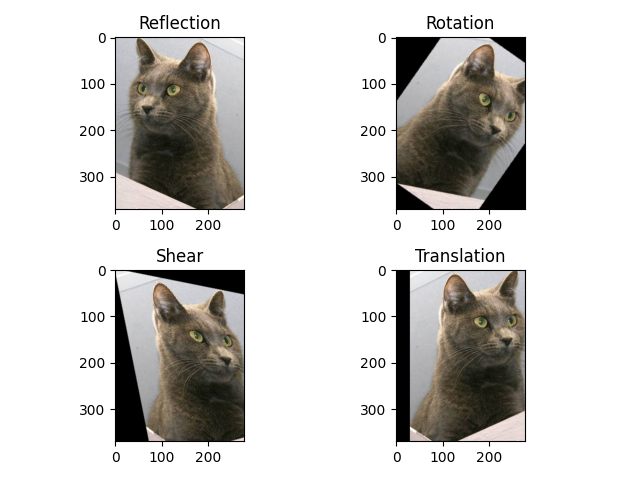
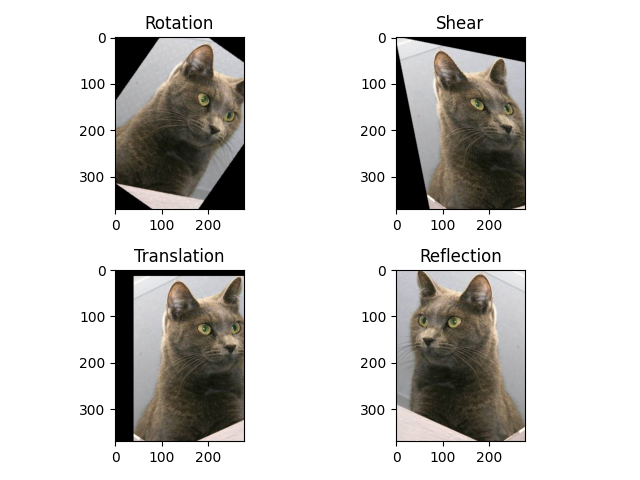
feat: resample

diff --git a/affine_tf/resample/resamples.py b/affine_tf/resample/resamples.py
@@ -26,43 +26,128 @@ def miss_values(new_coords, height, width):
     values = tf.ones(shape=(new_coords.shape[0]))
     mask = tf.scatter_nd(new_coords, values, shape=(height, width))
     coords = tf.where(mask == 0)
+    coords = tf.cast(coords, dtype=tf.int32)
     return coords
 
 
-def interpolate_values(image,
-                       empty_coordinates,
-                       left_up_coords,
-                       right_up_coords,
-                       left_down_coords,
-                       right_down_coords):
-    left_up_values = tf.gather_nd(image, left_up_coords)
-    right_up_values = tf.gather_nd(image, right_up_coords)
-    left_down_values = tf.gather_nd(image, left_down_coords)
-    right_down_values = tf.gather_nd(image, right_down_coords)
+def padding_mask(coordinates, height, width):
+    c = tf.transpose(coordinates)
+    y = tf.slice(c, [0, 0], [1, -1])
+    x = tf.slice(c, [1, 0], [1, -1])
+    xm0 = tf.equal(x, 0)
+    xm1 = tf.equal(x, width + 1)
+    xm = tf.logical_or(xm0, xm1)
+    ym0 = tf.equal(y, 0)
+    ym1 = tf.equal(y, height + 1)
+    ym = tf.logical_or(ym0, ym1)
+    mask = tf.logical_or(xm, ym)
+    m0 = tf.reshape(mask, shape=(-1, 1))
+    m1 = tf.identity(m0)
+    mask = tf.concat((m0, m1), axis=1)
+    coords = tf.boolean_mask(coordinates, mask)
+    coords = tf.reshape(coords, shape=(-1, 2))
+    values = tf.ones(shape=coords.shape[0], dtype=tf.uint8)
+    pad_mask = tf.scatter_nd(coords, values, tf.constant([height + 2, width + 2]))
+    pad_mask = tf.clip_by_value(pad_mask, 0, 1)
+    return pad_mask
 
-    values = tf.math.add_n((left_up_values, right_up_values, left_down_values, right_down_values))
-    values = tf.divide(values, 4)
 
-    shape = (image.shape[0], image.shape[1])
-    new_img = tf.scatter_nd(empty_coordinates, values, shape)
-    return new_img
+def fill_channel(channel,
+                 empty_coordinates,
+                 den,
+                 height,
+                 width,
+                 p0, p1,
+                 p2, p3,
+                 p4, p5,
+                 p6, p7):
+    """
+    Заполнить канал channel в значениях empty_coordinates
+    """
+    p0v = tf.gather_nd(channel, p0)
+    p1v = tf.gather_nd(channel, p1)
+    p2v = tf.gather_nd(channel, p2)
+    p3v = tf.gather_nd(channel, p3)
+    p4v = tf.gather_nd(channel, p4)
+    p5v = tf.gather_nd(channel, p5)
+    p6v = tf.gather_nd(channel, p6)
+    p7v = tf.gather_nd(channel, p7)
+
+    values = tf.math.add_n((p0v, p1v, p2v, p3v, p4v, p5v, p6v, p7v))
+    den = tf.cast(den, tf.float32)
+    values = tf.divide(values, den)
+
+    empty_coordinates = tf.subtract(empty_coordinates, 1)
+    shape = (height, width)
+    filled_channel = tf.scatter_nd(empty_coordinates, values, shape)
+    return filled_channel
 
 
-def bilinear_interpolation(image, new_coords):
+def interpolation(image: tf.Variable, new_coords: tf.Variable) -> tf.Variable:
     height, width = image.shape[1], image.shape[2]
     empty_coordinates = miss_values(new_coords, height, width)
+    # Строим маску пропусков с паддингом 1
+    empty_coordinates = tf.add(empty_coordinates, 1)
+    values = tf.ones(shape=empty_coordinates.shape[0], dtype=tf.uint8)
+    miss_values_mask = tf.scatter_nd(empty_coordinates, values, tf.constant([height + 2, width + 2]))
     y = tf.slice(empty_coordinates, [0, 0], [-1, 1])
     x = tf.slice(empty_coordinates, [0, 1], [-1, 1])
+    # Координаты x,y вокруг пропусков
     px0 = tf.squeeze(tf.subtract(x, 1), axis=1)
     py0 = tf.squeeze(tf.subtract(y, 1), axis=1)
     px1 = tf.squeeze(tf.add(x, 1), axis=1)
     py1 = tf.squeeze(tf.add(y, 1), axis=1)
 
-    left_up_coords = tf.stack((py0, px0), axis=1)
-    right_up_coords = tf.stack((py0, px1), axis=1)
-    left_down_coords = tf.stack((py1, px0), axis=1)
-    right_down_coords = tf.stack((py1, px1), axis=1)
+    x = tf.squeeze(x, axis=1)
+    y = tf.squeeze(y, axis=1)
+    # Координаты точек вокруг пропусков
+    p0 = tf.stack((py0, px0), axis=1)
+    p1 = tf.stack((py0, x), axis=1)
+    p2 = tf.stack((py0, px1), axis=1)
+    p3 = tf.stack((y, px0), axis=1)
+    p4 = tf.stack((y, px1), axis=1)
+    p5 = tf.stack((py1, px0), axis=1)
+    p6 = tf.stack((py1, x), axis=1)
+    p7 = tf.stack((py1, px1), axis=1)
 
-    coords = (left_up_coords, right_up_coords, left_down_coords, right_down_coords)
-    interp_values = tf.map_fn(fn=lambda t: interpolate_values(t, empty_coordinates, *coords), elems=image)
-    return interp_values
+    coords_around = tf.stack((p0, p1, p2, p3, p4, p5, p6, p7), axis=0)
+    coords_around = tf.reshape(coords_around, shape=(-1, 2))
+    coords_around = tf.cast(coords_around, tf.int32)
+    values = tf.ones(shape=coords_around.shape[0], dtype=tf.uint8)
+    # Маска крайних точек, которые мы попытаемся взять
+    pad_mask = padding_mask(coords_around, height, width)
+    # Маска точек вокруг пропусков
+    t = tf.scatter_nd(coords_around, values, tf.constant([height + 2, width + 2]))
+    t = tf.clip_by_value(t, 0, 1)
+    # Убрать точки в паддинге
+    t = tf.subtract(t, pad_mask)
+    # t - маска существующих пикселей вокруг пропущенных точек
+    t = tf.bitwise.bitwise_xor(miss_values_mask, t)
+
+    # den - количество известных точек вокруг каждой неизвестной
+    pd0v = tf.gather_nd(t, p0)
+    pd1v = tf.gather_nd(t, p1)
+    pd2v = tf.gather_nd(t, p2)
+    pd3v = tf.gather_nd(t, p3)
+    pd4v = tf.gather_nd(t, p4)
+    pd5v = tf.gather_nd(t, p5)
+    pd6v = tf.gather_nd(t, p6)
+    pd7v = tf.gather_nd(t, p7)
+    h = tf.stack((pd0v, pd1v, pd2v, pd3v, pd4v, pd5v, pd6v, pd7v), axis=0)
+    h = tf.cast(h, tf.float32)
+    den = tf.reduce_sum(h, axis=0)
+    den = tf.add(den, 1)
+
+    # Вернем координаты на место (без паддинга)
+    p0 = tf.subtract(p0, 1)
+    p1 = tf.subtract(p1, 1)
+    p2 = tf.subtract(p2, 1)
+    p3 = tf.subtract(p3, 1)
+    p4 = tf.subtract(p4, 1)
+    p5 = tf.subtract(p5, 1)
+    p6 = tf.subtract(p6, 1)
+    p7 = tf.subtract(p7, 1)
+    p = (p0, p1, p2, p3, p4, p5, p6, p7)
+    # Заполним пропуски для каждого канала
+    channels = tf.map_fn(fn=lambda ch: fill_channel(ch, empty_coordinates, den, height, width, *p), elems=image)
+    return channels

diff --git a/affine_tf/transforms/affine.py b/affine_tf/transforms/affine.py
@@ -3,9 +3,9 @@ from math import radians
 
 import tensorflow as tf
 from tensorflow import cos, sin
-from affine_tf.resample import bilinear_interpolation
+from affine_tf.resample import interpolation
 
-from .utils import get_identical_coords_matrix, integer_2d_coordinates, unique_coords, full_mask, \
+from affine_tf.utils import get_identical_coords_matrix, integer_2d_coordinates, unique_coords, full_mask, \
     one_row_coordinates, three_channels, one_channel
 
 
@@ -52,7 +52,7 @@ def rotate(image: tf.Variable, angle: float) -> Tuple[tf.Variable, tf.Variable]:
     new_img = tf.cond(tf.equal(channels, 3), lambda: new_img, lambda: tf.expand_dims(new_img, axis=2))
 
     new_img = tf.transpose(new_img, perm=[2, 0, 1])
-    miss_values = bilinear_interpolation(new_img, new_coords)
+    miss_values = interpolation(new_img, new_coords)
     new_img = tf.add(new_img, miss_values)
     new_img = tf.transpose(new_img, perm=[1, 2, 0])
     return new_img
@@ -80,6 +80,18 @@ def translation(image: tf.Variable, dx: int, dy: int) -> tf.Variable:
     return new_img
 
 
+def reflection(image: tf.Variable) -> tf.Variable:
+    """Зеркально отображает изображение"""
+    if len(image.shape) != 3:
+        raise ValueError(f"Expected image dims: height x width x channels. Image shape: {image.shape}")
+    dx = image.shape[1]
+    T = tf.constant([[-1, 0, dx],
+                     [0, 1, 0],
+                     [0, 0, 1]], dtype=tf.float32)
+    reflect = warpAffine(image, T)
+    return reflect
+
+
 def warpAffine(image: tf.Variable, T: tf.Variable) -> tf.Variable:
     if len(image.shape) != 3:
         raise ValueError(f"Expected image dims: height x width x channels. Image shape: {image.shape}")
@@ -104,7 +116,7 @@ def warpAffine(image: tf.Variable, T: tf.Variable) -> tf.Variable:
     new_img = tf.cond(tf.equal(channels, 3), lambda: new_img, lambda: tf.expand_dims(new_img, axis=2))
 
     new_img = tf.transpose(new_img, perm=[2, 0, 1])
-    miss_values = bilinear_interpolation(new_img, new_coords)
+    miss_values = interpolation(new_img, new_coords)
     new_img = tf.add(new_img, miss_values)
     new_img = tf.transpose(new_img, perm=[1, 2, 0])
     return new_img

diff --git a/examples/examples.py b/examples/examples.py
@@ -1,7 +1,7 @@
 import tensorflow as tf
 import matplotlib.pyplot as plt
 
-from affine_tf.transforms import warpAffine, rotate, translation
+from affine_tf.transforms import warpAffine, rotate, translation, reflection
 
 if __name__ == '__main__':
     img = plt.imread("../data/11.jpg")
@@ -9,24 +9,11 @@ if __name__ == '__main__':
     fig, axs = plt.subplots(2, 2)
 
     img = tf.convert_to_tensor(img, dtype=tf.float32)
-    dx = img.shape[1]
-
-    # reflection
-    T = tf.constant([[-1, 0, dx],
-                     [0, 1, 0],
-                     [0, 0, 1]], dtype=tf.float32)
-    refl = warpAffine(img, T)
-
-    refl = refl.numpy()
-    refl /= 255
-    axs[0, 0].set_title("Reflection")
-    axs[0, 0].imshow(refl)
-
     # rotation
     rot_img = rotate(img, angle=35)
     rot_img /= 255
-    axs[0, 1].set_title("Rotation")
-    axs[0, 1].imshow(rot_img)
+    axs[0, 0].set_title("Rotation")
+    axs[0, 0].imshow(rot_img)
 
     # shear
     T = tf.constant([[1, 0.2, 0],
@@ -34,13 +21,20 @@ if __name__ == '__main__':
                      [0, 0, 1]], dtype=tf.float32)
     shear = warpAffine(img, T)
     shear /= 255
-    axs[1, 0].set_title("Shear")
-    axs[1, 0].imshow(shear)
+    axs[0, 1].set_title("Shear")
+    axs[0, 1].imshow(shear)
 
     # translation
-    transl_img = translation(img, dx=30, dy=0)
+    transl_img = translation(img, dx=40, dy=15)
     transl_img /= 255
-    axs[1, 1].set_title("Translation")
-    axs[1, 1].imshow(transl_img)
+    axs[1, 0].set_title("Translation")
+    axs[1, 0].imshow(transl_img)
+
+    # reflection
+    refl = reflection(img)
+    refl = refl.numpy()
+    refl /= 255
+    axs[1, 1].set_title("Reflection")
+    axs[1, 1].imshow(refl)
 
     plt.show()

diff --git a/examples/rotation.py b/examples/rotation.py
@@ -1,15 +1,19 @@
 import tensorflow as tf
 import matplotlib.pyplot as plt
+import cv2
+import numpy as np
 
 from affine_tf.transforms import rotate
 
 if __name__ == '__main__':
-    img = plt.imread("../data/11.jpg")
+    # img = plt.imread("../data/11.jpg")
+    img = cv2.imread("../data/11.jpg", 0)
+    img = np.expand_dims(img, axis=2)
     plt.imshow(img)
     plt.show()
 
     img = tf.convert_to_tensor(img, dtype=tf.float32)
-    rot_img = rotate(img, angle=30)
+    rot_img = rotate(img, angle=17)
 
     rot_img = rot_img.numpy()
     rot_img /= 255

diff --git a/setup.py b/setup.py
@@ -2,7 +2,7 @@ import setuptools
 
 setuptools.setup(
     name="affine_tf",
-    version="0.0.1",
+    version="0.0.2",
     author="Alexander Barmin",
     author_email="barmin1@mail.ru",
     description="Affine transform implementation",

diff --git a/affine_tf/transforms/__init__.py b/affine_tf/transforms/__init__.py
@@ -1,1 +1,1 @@
-from .affine import rotate, translation, warpAffine
+from .affine import rotate, translation, reflection, warpAffine

diff --git a/affine_tf/resample/__init__.py b/affine_tf/resample/__init__.py
@@ -1,1 +1,1 @@
-from .resamples import bilinear_interpolation
+from .resamples import interpolation

diff --git a/README.md b/README.md
@@ -17,6 +17,7 @@ python setup.py install
 
 ![examples](examples.png)
 
-# Known issues
-Interpolation implementation is not correct and works with kind of probability  
-![problem](problem.png)
+# TODO:
+* batch support
+* improve resample method
+* refactor
